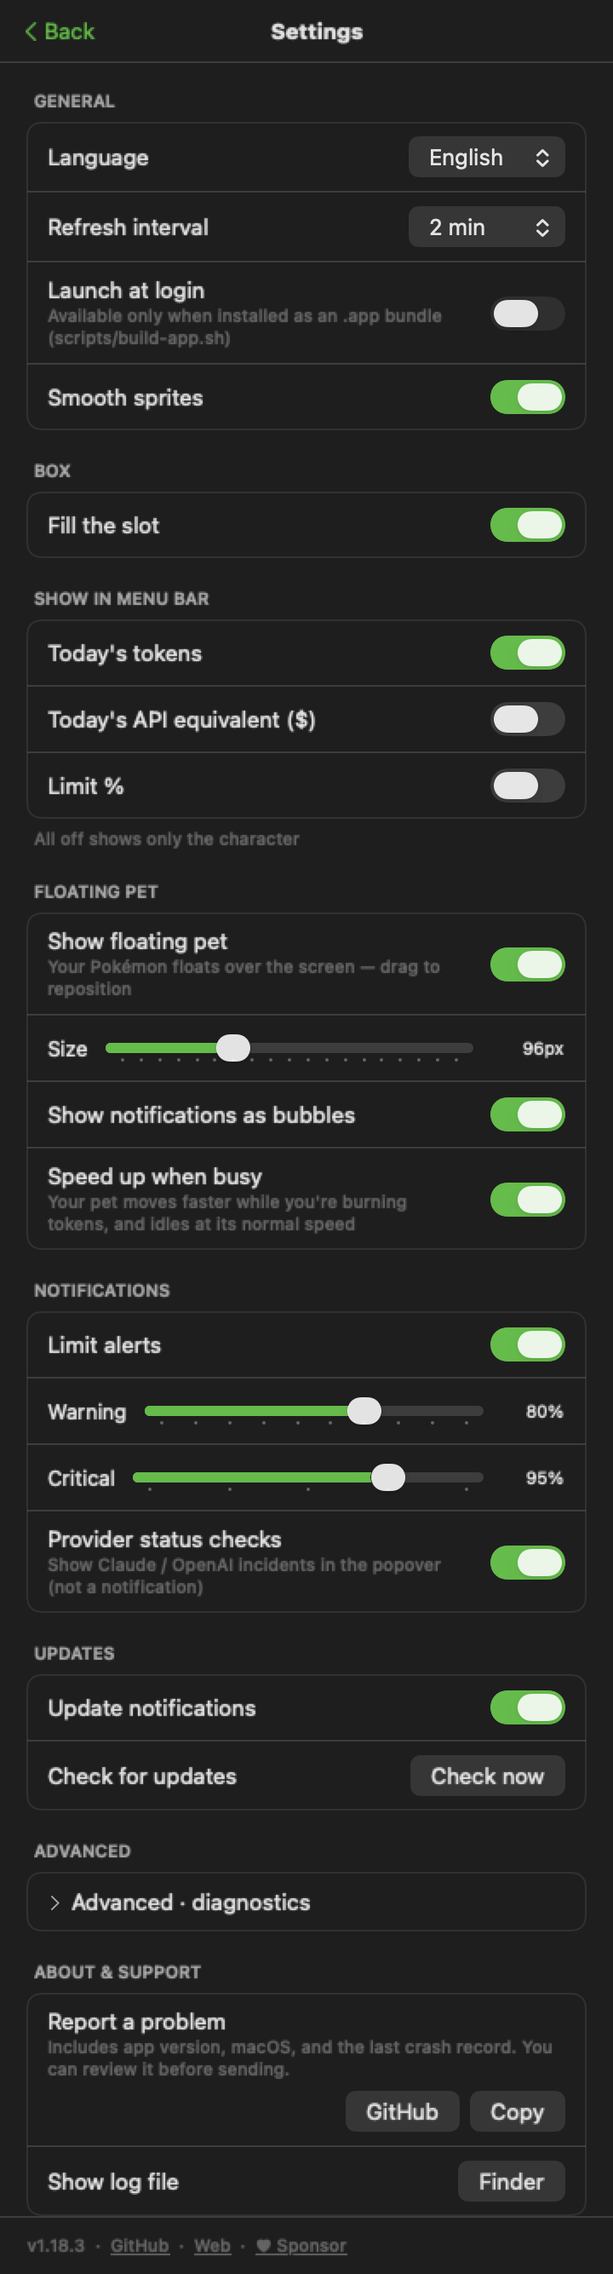
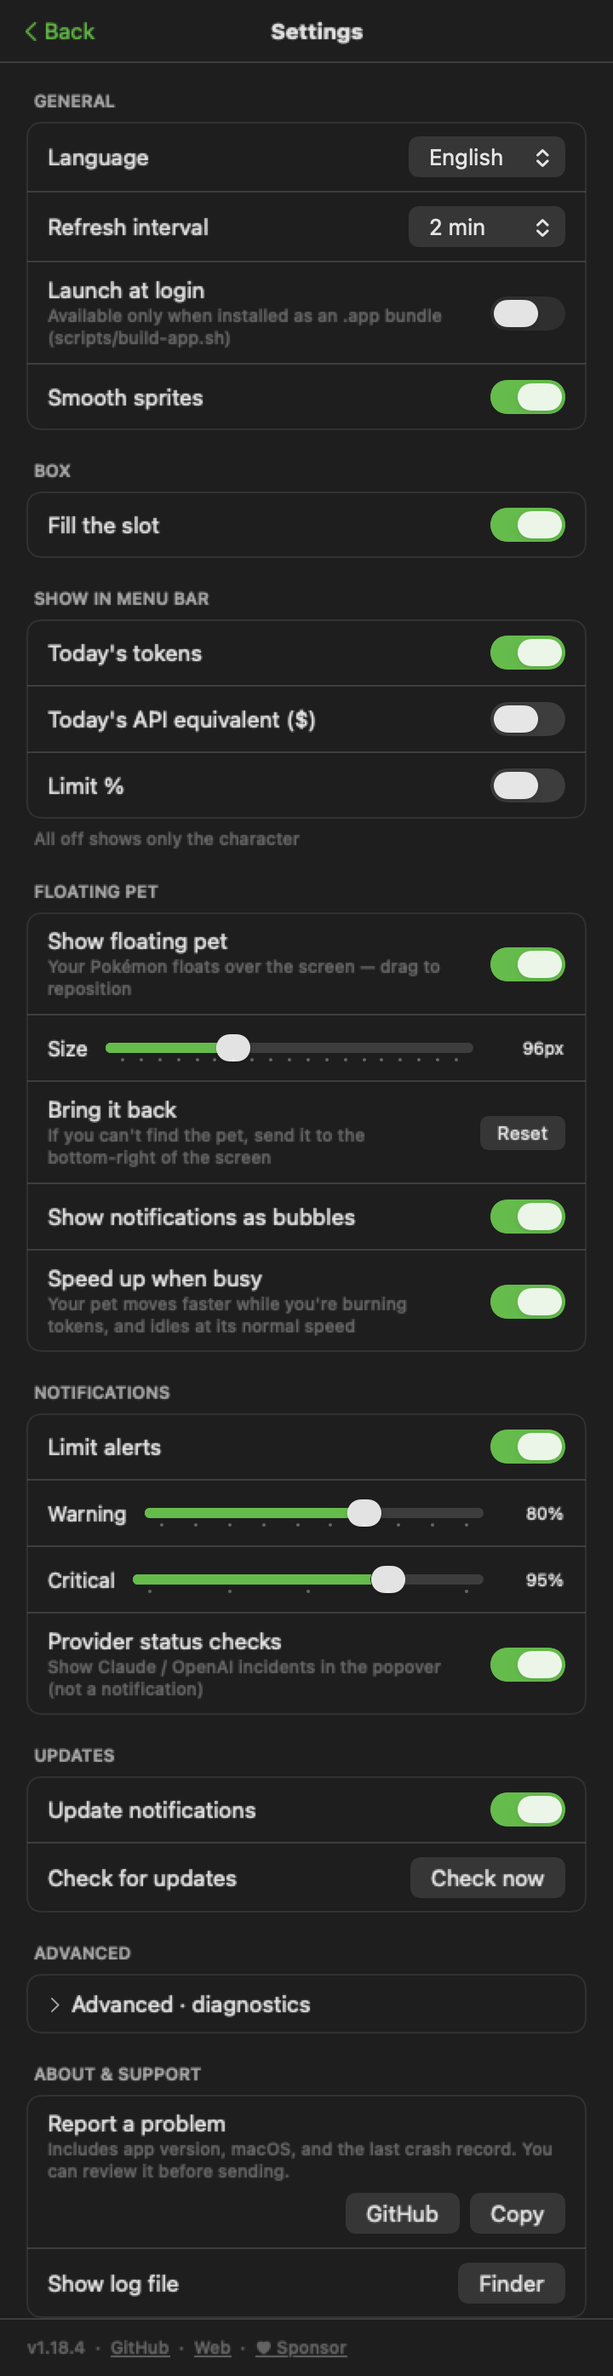
fix: keep the floating pet within reach, and add a way to bring it back (#19)
A player reported that their floating pet vanished at some point and that
toggling it off and on, or even reinstalling, would not bring it back.

The restore guard accepted any saved position that overlapped a screen's
visible frame by a single point. Dragging has no clamp, so the pet can be
pushed almost entirely past an edge, and windowDidMove saves wherever it
lands. On every show the guard then let that sliver through and put the pet
back where it could not be seen. Position lives in UserDefaults, so a
reinstall keeps it. The cruel part is that a pet pushed fully off screen
did recover — the guard caught it — so only the partly-visible case was
stuck for good.

A position is now accepted only when the pet's centre lies on some screen,
which keeps a pet the player deliberately tucked half into a corner while
rejecting one that shows a single row of pixels. The guard also tests the
pet's own rectangle rather than the panel's: with a speech bubble up the
panel is larger, and the bubble alone could keep an off-screen pet "visible".

The same symptom has a second route. floatingPetSize was read from defaults
with no range check, and a zero draws the pet at 0x0 — equally invisible,
equally immune to toggling. It is now clamped at read time, with the slider
and the clamp sharing one range.

Settings gains a "Bring it back" row under the size slider. The button only
raises a request on UsageStore; the panel owns the saved-position keys and
[…]

diff --git a/Tests/PokeDexBarTests/FloatingPetHomeTests.swift b/Tests/PokeDexBarTests/FloatingPetHomeTests.swift
@@ -1,0 +1,85 @@
+import XCTest
+@testable import PokeDexBar
+
+/// 플로팅 펫을 처음 자리로 돌려보내기.
+///
+/// 원인(가장자리에 한 줄만 걸친 자리를 손에 닿는다고 본 가드)은 `FloatingPetReachabilityTests`
+/// 가 잠근다. 이 버튼은 **원인과 무관하게** "내 펫 어디 갔지"를 한 번에 푸는 명시적 탈출구다 —
+/// 다음에 또 다른 이유로 펫이 숨어도 사용자가 스스로 꺼낼 수 있어야 한다.
+@MainActor
+final class FloatingPetHomeTests: XCTestCase {
+
+    /// 버튼은 **요청을 올리기만** 한다. 위치를 실제로 지우는 건 위치를 소유한 패널의 일이다 —
+    /// 스토어가 위치 키 문자열을 알면 같은 리터럴이 두 곳에 생겨 드리프트가 난다.
+    func testTheButtonRaisesARequest() {
+        let defaults = UserDefaults(suiteName: "pet-home-\(UUID().uuidString)")!
+        let store = UsageStore(defaults: defaults)
+        let before = store.floatingPetHomeRequests
+        store.sendFloatingPetHome()
+        XCTAssertEqual(store.floatingPetHomeRequests, before + 1)
+        store.sendFloatingPetHome()
+        XCTAssertEqual(store.floatingPetHomeRequests, before + 2, "두 번째 요청이 안 잡힌다")
+    }
+
+    /// 지우기가 **두 키를 실제로** 없앤다. 하나만 지우면 다른 축이 남아 엉뚱한 자리로 간다.
+    func testClearingRemovesBothSavedCoordinates() {
+        let defaults = UserDefaults(suiteName: "pet-home-\(UUID().uuidString)")!
+        defaults.set(1439.0, forKey: FloatingPetController.originXKey)
+        defaults.set(-95.0, forKey: FloatingPetController.originYKey)
+
+        FloatingPetController.clearSavedOrigin(in: defaults)
+        XCTAssertNil(defaults.object(forKey: FloatingPetController.originXKey))
+        XCTAssertNil(defaults.object(forKey: FloatingPetController.originYKey))
+    }
+
+    /// **돌려보내는 자리 자체가 손에 닿아야 한다.** 두 수정이 맞물리는 지점이다 — 기본 자리가
+    /// 도달 가능성 가드에 걸리면 버튼을 눌러도 펫이 또 기본 자리로(=같은 곳으로) 튕겨 나가 안 보인다.
+    func testTheHomePositionIsItselfReachable() {
+        for frame in [NSRect(x: 0, y: 0, width: 1440, height: 875),
+                      NSRect(x: 0, y: 25, width: 1280, height: 775),     // 메뉴바·독 뺀 작은 화면
+                      NSRect(x: -1920, y: 0, width: 1920, height: 1055)] { // 왼쪽 보조 모니터가 주 화면
+            for size in [UsageStore.floatingPetSizeRange.lowerBound,
+                         UsageStore.floatingPetSizeRange.upperBound] {
+                let origin = FloatingPetController.defaultPetOrigin(petSize: size, visibleFrame: frame)
+                let pet = NSRect(origin: origin, size: NSSize(width: size, height: size))
+                XCTAssertTrue(FloatingPetController.isReachable(pet, visibleFrames: [frame]),
+                              "크기 \(size) 의 기본 자리가 \(frame) 에서 손에 안 닿는다")
+            }
+        }
+    }
+
+    /// 패널이 그 요청을 **관찰하고 있어야** 한다. 관찰 목록에서 빠지면 버튼을 눌러도 `sync()` 가
+    /// 안 돌아 아무 일도 안 일어난다 — 컴파일도 되고 다른 테스트도 다 통과하는 조용한 고장이다.
+    func testThePanelWatchesTheRequest() throws {
+        let url = URL(fileURLWithPath: #filePath)
+            .deletingLastPathComponent().deletingLastPathComponent().deletingLastPathComponent()
+            .appendingPathComponent("Sources/PokeDexBar/UI/FloatingPetPanel.swift")
+        let source = try String(contentsOf: url, encoding: .utf8)
+        let code = source.split(separator: "\n")
+            .map { $0.contains("//") ? String($0[..<$0.range(of: "//")!.lowerBound]) : String($0) }
+            .joined(separator: "\n")
+        let observe = try XCTUnwrap(code.range(of: "private func observeSettings()"))
+        let tracked = String(code[observe.upperBound...].prefix(500))
+        XCTAssertTrue(tracked.contains("store.floatingPetHomeRequests"),
+                      "패널이 「처음 자리로」 요청을 관찰하지 않는다 — 버튼이 아무 일도 안 한다")
+    }
+
+    /// 펫이 **꺼져 있을 때** 눌러도 위치가 지워져야 한다 — 그래야 다시 켤 때 제자리로 온다.
+    /// 지우기가 `sync()` 의 숨김 분기 뒤에 있으면 꺼진 상태에서는 안 돈다(소스에서 순서를 본다).
+    func testTheRequestIsHonouredEvenWhileThePetIsOff() throws {
+        let url = URL(fileURLWithPath: #filePath)
+            .deletingLastPathComponent().deletingLastPathComponent().deletingLastPathComponent()
+            .appendingPathComponent("Sources/PokeDexBar/UI/FloatingPetPanel.swift")
+        let source = try String(contentsOf: url, encoding: .utf8)
+        // 주석을 먼저 걷어낸다 — 통짜 검색은 바로 위 주석의 같은 낱말에 걸린다.
+        let code = source.split(separator: "\n")
+            .map { $0.contains("//") ? String($0[..<$0.range(of: "//")!.lowerBound]) : String($0) }
+            .joined(separator: "\n")
+        let sync = try XCTUnwrap(code.range(of: "private func sync()"))
+        let body = String(code[sync.upperBound...].prefix(600))
+        let clear = try XCTUnwrap(body.range(of: "clearSavedOrigin"), "sync 가 위치를 안 지운다")
+        let hide = try XCTUnwrap(body.range(of: "hide()"))
+        XCTAssertLessThan(clear.lowerBound, hide.lowerBound,
+                          "지우기가 숨김 분기 뒤에 있어 펫이 꺼져 있을 때는 안 돈다")
+    }
+}

diff --git a/Sources/PokeDexBar/UI/FloatingPetPanel.swift b/Sources/PokeDexBar/UI/FloatingPetPanel.swift
@@ -15,10 +15,12 @@ final class FloatingPetController: NSObject, NSWindowDelegate {
     private var hoverPanel: NSPanel?
     private var displayAwake = true
     private var builtAnimated: Bool?
+    /// 마지막으로 처리한 「처음 자리로」 요청. 스토어의 값과 다르면 새 요청이 온 것이다.
+    private var seenHomeRequests = 0
     private var powerObserver: NSObjectProtocol?
 
-    private static let originXKey = "floatingPetOriginX"
-    private static let originYKey = "floatingPetOriginY"
+    static let originXKey = "floatingPetOriginX"
+    static let originYKey = "floatingPetOriginY"
 
     /// Squared movement (pt²) below which a mouse-up counts as a click, not a drag.
     static let clickThresholdSquared: CGFloat = 16  // ~4pt
@@ -64,6 +66,7 @@ final class FloatingPetController: NSObject, NSWindowDelegate {
         withObservationTracking {
             _ = store.floatingPetEnabled
             _ = store.floatingPetSize
+            _ = store.floatingPetHomeRequests
             _ = store.currentBubbleAlert
             _ = store.todayTotalTokens
             _ = store.highestLimitUtilization
@@ -126,8 +129,21 @@ final class FloatingPetController: NSObject, NSWindowDelegate {
     }
 
     private func sync() {
+        // **숨김 분기보다 먼저 처리한다.** 펫이 꺼져 있을 때 눌러도 위치가 지워져야, 다시 켤 때
+        // 제자리로 온다. 뒤에 두면 꺼진 상태의 요청이 그냥 버려진다.
+        if store.floatingPetHomeRequests != seenHomeRequests {
+            seenHomeRequests = store.floatingPetHomeRequests
+            Self.clearSavedOrigin(in: defaults)
+        }
         guard store.floatingPetEnabled, displayAwake else { hide(); return }
         show()
+    }
+
+    /// 저장된 위치를 지운다 — 다음 배치가 `defaultPetOrigin` 으로 떨어진다. **두 축을 함께**
+    /// 지운다: 하나만 남으면 그 축의 옛 값과 다른 축의 기본값이 섞인 엉뚱한 자리로 간다.
+    static func clearSavedOrigin(in defaults: UserDefaults) {
+        defaults.removeObject(forKey: originXKey)
+        defaults.removeObject(forKey: originYKey)
     }
 
     private func show() {
@@ -241,18 +257,40 @@ final class FloatingPetController: NSObject, NSWindowDelegate {
         } else {
             petOrigin = Self.defaultPetOrigin(petSize: petSize)
         }
-        var frame = NSRect(origin: Self.panelOrigin(petOrigin: petOrigin, petSize: petSize, panelSize: size),
-                           size: size)
-        if !NSScreen.screens.contains(where: { $0.visibleFrame.intersects(frame) }) {
-            let fallbackPet = Self.defaultPetOrigin(petSize: petSize)
-            frame.origin = Self.panelOrigin(petOrigin: fallbackPet, petSize: petSize, panelSize: size)
-        }
-        return frame
+        // **패널이 아니라 펫을 본다.** 말풍선이 뜨면 패널이 펫보다 커서, 펫은 화면 밖인데
+        // 말풍선 자리만 걸쳐도 예전 가드는 통과시켰다.
+        let petRect = NSRect(origin: petOrigin, size: NSSize(width: petSize, height: petSize))
+        let reachable = Self.isReachable(petRect, visibleFrames: NSScreen.screens.map(\.visibleFrame))
+        let placed = reachable ? petOrigin : Self.defaultPetOrigin(petSize: petSize)
+        return NSRect(origin: Self.panelOrigin(petOrigin: placed, petSize: petSize, panelSize: size),
+                      size: size)
+    }
+
+    /// 이 자리의 펫을 **손으로 잡을 수 있나.** 중심이 어느 화면의 보이는 영역 안에 있으면 그렇다.
+    ///
+    /// 예전 가드는 "화면과 1pt 라도 겹치면 통과"였다. 그래서 가장자리에 한 줄만 걸친 자리가
+    /// 켤 때마다 그대로 복원됐고, 위치는 `UserDefaults` 라 재설치로도 안 지워져 **펫이 영원히
+    /// 사라졌다**(사용자 제보: 껐다 켜도·재설치해도 안 돌아온다). 완전히 화면 밖이면 오히려 가드가
+    /// 잡아 기본 자리로 돌렸으니, 조금 걸친 경우만 갇힌 것이다.
+    ///
+    /// 중심을 기준으로 한 이유: 구석에 반쯤 걸쳐 둔 자리는 사용자가 일부러 고른 것이라 살려야 하고,
+    /// 중심이 화면 안이면 펫의 최소 4분의 1은 보여 잡을 수 있다. 크기가 0 이면 어디에 있든
+    /// 안 보이므로 걸러진다 — 같은 증상을 내는 다른 구멍이다.
+    nonisolated static func isReachable(_ pet: NSRect, visibleFrames: [NSRect]) -> Bool {
+        guard pet.width > 0, pet.height > 0 else { return false }
+        let center = NSPoint(x: pet.midX, y: pet.midY)
+        return visibleFrames.contains { $0.contains(center) }
     }
 
     private static func defaultPetOrigin(petSize: CGFloat) -> NSPoint {
         guard let visible = NSScreen.main?.visibleFrame else { return NSPoint(x: 120, y: 120) }
-        return NSPoint(x: visible.maxX - petSize - 24, y: visible.minY + 24)
+        return defaultPetOrigin(petSize: petSize, visibleFrame: visible)
+    }
+
+    /// 처음 자리 — 화면 오른쪽 아래, 가장자리에서 24pt 안쪽. 「처음 자리로」 버튼과 손에 안 닿는
+    /// 자리의 대체값이 **같은 이 값**을 쓴다.
+    nonisolated static func defaultPetOrigin(petSize: CGFloat, visibleFrame visible: NSRect) -> NSPoint {
+        NSPoint(x: visible.maxX - petSize - 24, y: visible.minY + 24)
     }
 
     private func makePanel() -> NSPanel {

diff --git a/Tests/PokeDexBarTests/FloatingPetReachabilityTests.swift b/Tests/PokeDexBarTests/FloatingPetReachabilityTests.swift
@@ -1,0 +1,69 @@
+import XCTest
+@testable import PokeDexBar
+
+/// 플로팅 펫이 **실제로 손에 닿는 자리인가.**
+///
+/// 사용자 제보: 펫이 어느 순간 사라졌고, 껐다 켜도·재설치해도 안 돌아온다. 위치는 `UserDefaults`
+/// 라 재설치로 안 지워지고, 복원 가드는 "화면과 1pt 라도 겹치면 통과"였다 — 그래서 가장자리에
+/// 한 줄만 걸친 자리가 켤 때마다 그대로 복원됐다. 완전히 화면 밖이면 오히려 가드가 잡아 기본
+/// 자리로 돌렸으니, **조금 걸친 경우만** 영원히 갇힌 것이다.
+final class FloatingPetReachabilityTests: XCTestCase {
+    private let screen = NSRect(x: 0, y: 0, width: 1440, height: 875)
+    private let size: CGFloat = 96
+
+    private func pet(at origin: NSPoint) -> NSRect {
+        NSRect(origin: origin, size: NSSize(width: size, height: size))
+    }
+
+    func testAPetFullyOnScreenIsReachable() {
+        XCTAssertTrue(FloatingPetController.isReachable(pet(at: NSPoint(x: 600, y: 400)),
+                                                        visibleFrames: [screen]))
+    }
+
+    /// **이 결함의 정체.** 오른쪽 끝에 1pt 만 걸친 펫 — 예전 가드는 겹친다고 통과시켰다.
+    func testASliverAtTheEdgeIsNotReachable() {
+        let sliver = pet(at: NSPoint(x: screen.maxX - 1, y: 400))
+        XCTAssertTrue(screen.intersects(sliver), "전제: 화면과 겹치긴 한다(예전 가드가 통과시킨 모양)")
+        XCTAssertFalse(FloatingPetController.isReachable(sliver, visibleFrames: [screen]),
+                       "한 줄만 보이는 펫을 손에 닿는다고 봤다")
+    }
+
+    /// 네 가장자리 어디로 밀려나도 같다 — 한 방향만 고치면 나머지 셋에서 또 갇힌다.
+    func testASliverOnAnyEdgeIsNotReachable() {
+        let slivers = [
+            pet(at: NSPoint(x: screen.maxX - 1, y: 400)),            // 오른쪽
+            pet(at: NSPoint(x: screen.minX - size + 1, y: 400)),     // 왼쪽
+            pet(at: NSPoint(x: 600, y: screen.maxY - 1)),            // 위
+            pet(at: NSPoint(x: 600, y: screen.minY - size + 1)),     // 아래
+        ]
+        for sliver in slivers {
+            XCTAssertFalse(FloatingPetController.isReachable(sliver, visibleFrames: [screen]),
+                           "\(sliver.origin) 에서 갇힌다")
+        }
+    }
+
+    /// 대조군 — 가장자리에 **반쯤** 걸친 펫은 잡을 수 있다. 이것까지 막으면 사용자가 일부러
+    /// 구석에 붙여 둔 자리를 매번 빼앗는다.
+    func testAPetHalfOverTheEdgeIsStillReachable() {
+        let half = pet(at: NSPoint(x: screen.maxX - size / 2 - 4, y: 400))
+        XCTAssertTrue(FloatingPetController.isReachable(half, visibleFrames: [screen]))
+    }
+
+    func testAPetOnNoScreenIsNotReachable() {
+        XCTAssertFalse(FloatingPetController.isReachable(pet(at: NSPoint(x: 5000, y: 5000)),
+                                                         visibleFrames: [screen]))
+    }
+
+    /// 화면이 여럿이면 그중 하나에서 잡히면 된다 — 외장 모니터에 둔 펫이 기본 자리로 끌려오면 안 된다.
+    func testAPetOnASecondScreenIsReachable() {
+        let external = NSRect(x: 1440, y: 0, width: 1920, height: 1080)
+        XCTAssertTrue(FloatingPetController.isReachable(pet(at: NSPoint(x: 2000, y: 500)),
+                                                        visibleFrames: [screen, external]))
+    }
+
+    /// 크기가 0 이 되면 어디에 있든 안 보인다 — 다른 경로로 같은 증상이 나는 구멍이다.
+    func testAZeroSizedPetIsNeverReachable() {
+        let zero = NSRect(x: 600, y: 400, width: 0, height: 0)
+        XCTAssertFalse(FloatingPetController.isReachable(zero, visibleFrames: [screen]))
+    }
+}

diff --git a/Sources/PokeDexBar/Core/UsageStore.swift b/Sources/PokeDexBar/Core/UsageStore.swift
@@ -82,6 +82,20 @@ final class UsageStore {
     var antialiasSprites: Bool {
         didSet { defaults.set(antialiasSprites, forKey: "antialiasSprites") }
     }
+    /// 플로팅 펫을 처음 자리로 돌려 달라는 요청. **값 자체는 의미가 없고 바뀌었다는 것이 신호다** —
+    /// 패널이 이 속성을 관찰하다가 바뀌면 자기가 저장한 위치를 지운다.
+    ///
+    /// 스토어가 위치를 직접 지우지 않는 이유: 위치 키는 패널이 소유한다(`FloatingPetController`).
+    /// 여기서도 그 문자열을 알면 같은 리터럴이 두 곳에 생겨 한쪽만 바뀌는 드리프트가 난다.
+    /// 저장하지 않는다 — 앱을 껐다 켜면 0 부터 다시 세도 되는 일회성 신호다.
+    private(set) var floatingPetHomeRequests = 0
+
+    /// 설정의 「처음 자리로」 버튼.
+    func sendFloatingPetHome() { floatingPetHomeRequests += 1 }
+
+    /// 플로팅 펫 크기의 허용 범위 — 설정 슬라이더와 저장값 읽기가 **같은 값**을 쓴다.
+    static let floatingPetSizeRange: ClosedRange<Double> = 48...192
+
     /// 플로팅 펫 스프라이트 한 변 크기(pt).
     var floatingPetSize: Double {
         didSet { defaults.set(floatingPetSize, forKey: "floatingPetSize") }
@@ -330,7 +344,13 @@ final class UsageStore {
         floatingPetEnabled = d.object(forKey: "floatingPetEnabled") as? Bool ?? false
         antialiasSprites = d.object(forKey: "antialiasSprites") as? Bool ?? true
         fillBoxSlots = d.object(forKey: "fillBoxSlots") as? Bool ?? true
-        floatingPetSize = d.object(forKey: "floatingPetSize") as? Double ?? 96
+        // **읽을 때 범위를 자른다.** 이 값이 0 이면 펫이 0×0 으로 그려져 어디에도 안 보이고,
+        // 설정은 `UserDefaults` 라 껐다 켜도·재설치해도 그대로 남는다 — "펫이 사라졌다"와 같은
+        // 증상을 내는 또 하나의 길이다. 슬라이더로는 범위 밖 값을 못 넣지만, 옛 판이 쓴 값이나
+        // 손으로 고친 값은 그대로 들어온다(관대 디코딩의 짝 — 경계에서 값 범위를 검증한다).
+        let range = Self.floatingPetSizeRange
+        floatingPetSize = min(range.upperBound,
+                              max(range.lowerBound, d.object(forKey: "floatingPetSize") as? Double ?? 96))
         floatingPetBubbleAlerts = d.object(forKey: "floatingPetBubbleAlerts") as? Bool ?? true
         floatingPetBurnSpeed = d.object(forKey: "floatingPetBurnSpeed") as? Bool ?? true
         disableKeychainAccess = d.object(forKey: "disableKeychainAccess") as? Bool ?? false

diff --git a/Sources/PokeDexBar/UI/SettingsView.swift b/Sources/PokeDexBar/UI/SettingsView.swift
@@ -177,9 +177,23 @@ struct SettingsView: View {
                 Divider()
                 groupRow {
                     Text(l.floatingPetSizeLabel).font(.callout)
-                    Slider(value: $store.floatingPetSize, in: 48...192, step: 8)
+                    Slider(value: $store.floatingPetSize, in: UsageStore.floatingPetSizeRange, step: 8)
                     Text("\(Int(store.floatingPetSize))px")
                         .font(.caption).monospacedDigit().frame(width: 44, alignment: .trailing)
+                }
+                Divider()
+                // 펫을 잃어버렸을 때의 탈출구. 화면 가장자리에 한 줄만 걸쳐 안 보이게 된 펫이
+                // 껐다 켜도·재설치해도 안 돌아왔던 제보가 있었다 — 그 원인은 고쳤지만, 다음에 또
+                // 다른 이유로 숨어도 사용자가 스스로 꺼낼 수 있어야 한다. 크기 바로 아래에 두는 건
+                // 둘 다 "펫이 화면 어디에 어떻게 있나"를 정하는 줄이기 때문이다.
+                groupRow {
+                    VStack(alignment: .leading, spacing: 1) {
+                        Text(l.floatingPetHomeLabel)
+                        Text(l.floatingPetHomeHint).font(.caption2).foregroundStyle(.tertiary)
+                    }
+                    Spacer()
+                    Button(l.floatingPetHomeButton) { store.sendFloatingPetHome() }
+                        .controlSize(.small)
                 }
                 Divider()
                 toggleRow(l.floatingPetBubbleAlertsLabel, $store.floatingPetBubbleAlerts)

diff --git a/Sources/PokeDexBar/Core/Localization.swift b/Sources/PokeDexBar/Core/Localization.swift
@@ -650,6 +650,13 @@ struct L {
           "Your Pokémon floats over the screen — drag to reposition",
           "ポケモンが画面の上に浮かびます — ドラッグで移動できます")
     }
+    var floatingPetHomeLabel: String { t("처음 자리로", "Bring it back", "はじめの場所へ") }
+    var floatingPetHomeHint: String {
+        t("펫이 안 보이면 화면 오른쪽 아래로 돌려보내요",
+          "If you can't find the pet, send it to the bottom-right of the screen",
+          "ペットが見当たらないとき、画面の右下へ戻します")
+    }
+    var floatingPetHomeButton: String { t("돌려보내기", "Reset", "戻す") }
     var floatingPetSizeLabel: String { t("크기", "Size", "サイズ") }
     /// 지금은 한도 알림만 말풍선으로 뜨지만, 알림 종류가 늘어도 이 라벨은 그대로 쓴다.
     var floatingPetBubbleAlertsLabel: String {

diff --git a/CLAUDE.md b/CLAUDE.md
@@ -329,6 +329,19 @@
   즉시 마나피가 된다(사용자 제보). 판정은 `requirement` 의 폴백이 아니라 **자식을 잇는 자리**
   (`PokeAPIClient.node(from:)`)에 있다 — 뿌리의 빈 details 는 정상이라 폴백을 고치면 뿌리가
   깨진다. 가드: `FabricatedChainEdgeTests`(실응답 픽스처 + 정상 간선 대조군).
+- **"화면에 있다"를 "겹친다"로 판정하지 마라 — 손에 닿는지로 판정하라.** 플로팅 펫 복원 가드가
+  `visibleFrame.intersects(frame)` 이라 **1pt 만 걸쳐도 통과**했다. 드래그에는 화면 클램프가 없어서 펫을
+  가장자리 밖으로 거의 다 밀어낼 수 있고, 그 자리가 `windowDidMove` 로 저장되면 켤 때마다 그 안 보이는
+  자리로 돌아왔다. 위치는 `UserDefaults` 라 재설치로도 안 지워져 **"펫이 사라졌고 껐다 켜도·재설치해도
+  안 돌아온다"**(사용자 제보). 얄궂게도 **완전히** 화면 밖이면 가드가 잡아 기본 자리로 돌렸으니, 조금
+  걸친 경우만 영원히 갇혔다. → 펫 **중심**이 어느 화면의 보이는 영역 안에 있어야 통과
+  (`FloatingPetController.isReachable`), 그리고 가드는 *패널*이 아니라 *펫* 사각형을 본다(말풍선이
+  뜨면 패널이 커서 펫은 밖인데 말풍선만 걸쳐도 통과했다).
+  같은 증상을 내는 다른 길도 같이 막았다: `floatingPetSize` 가 0 이면 0×0 으로 그려지는데 읽을 때
+  범위 검사가 없었다(`UsageStore.floatingPetSizeRange` 로 슬라이더와 읽기가 같은 범위를 쓴다).
+  **"설정값 때문에 안 보임"은 토글·재설치로 안 풀린다는 것을 기억하라** — 그 증상이 오면 세이브가
+  아니라 `UserDefaults` 를 먼저 의심하고, 사용자가 스스로 빠져나올 탈출구(설정의 「처음 자리로」)를 둔다.
+
 - **같은 필드가 "막는 조건"일 수도 "가르는 축"일 수도 있다 — 값의 존재가 아니라 값의 *집합*을 세라.**
   진화 조건줄의 `gender` 는 여섯 갈래에서 진짜 제한이지만(세꼬비는 암컷만 비퀸이 된다), 세 갈래
   (맛보돈·배쓰나이·냐스퍼)에서는 암수 두 줄이 **같은 자식 종**을 가리키고 갈리는 것은 폼뿐이다
